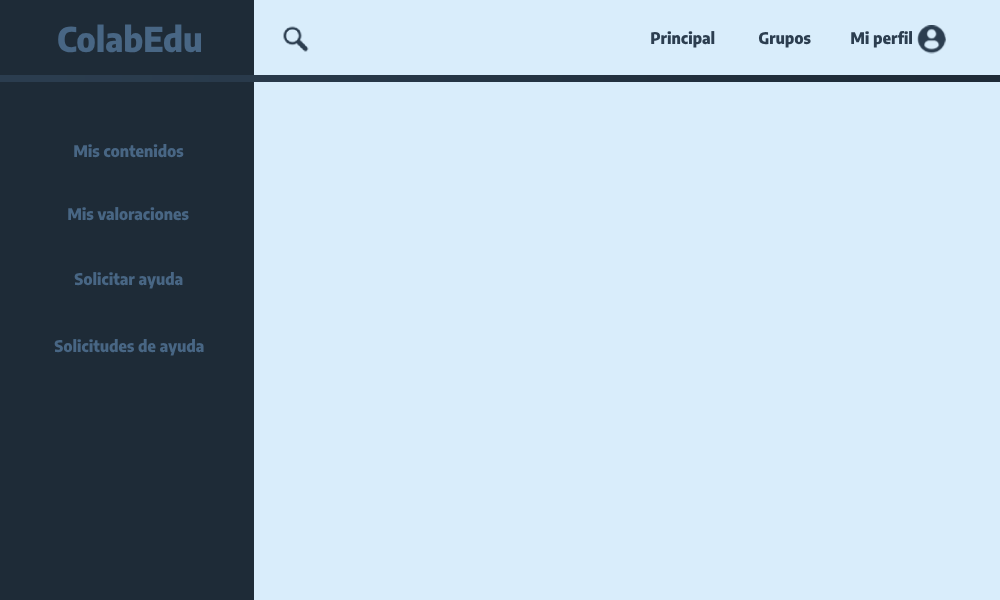
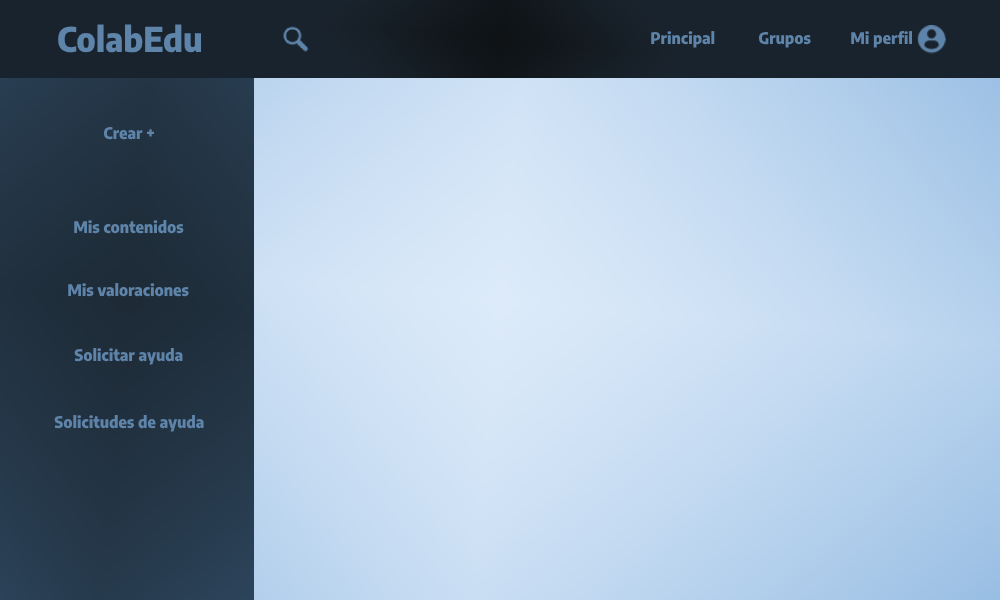
Interfaz, LoadContent, EmailService
Se cambiaron algunas interfaces gráficas, se creó el emailService, además de la creación de la ventana subir contenido -Aún sin funcionalidad-

diff --git a/src/main/java/co/uniquindio/estructuras/colabedu/Controller/RegisterController.java b/src/main/java/co/uniquindio/estructuras/colabedu/Controller/RegisterController.java
@@ -5,9 +5,13 @@ import java.net.URL;
 import java.util.ResourceBundle;
 
 import co.uniquindio.estructuras.colabedu.App;
-import co.uniquindio.estructuras.colabedu.DTO.UserDTO;
+<<<<<<< HEAD
+import co.uniquindio.estructuras.colabedu.DTO.ModeratorDTO;
 import co.uniquindio.estructuras.colabedu.Model.Moderator;
 import co.uniquindio.estructuras.colabedu.Model.User;
+import co.uniquindio.estructuras.colabedu.Util.EmailService;
+=======
+>>>>>>> 524ad9fae622212e6b406b37167177d3bc3e4777
 import javafx.fxml.FXML;
 import javafx.scene.control.TextField;
 import javafx.scene.input.MouseEvent;
@@ -27,13 +31,21 @@ public class RegisterController {
     private TextField txt_email;
 
     @FXML
+    private TextField txt_grade;
+
+    @FXML
     private TextField txt_name;
 
     @FXML
     private TextField txt_password;
 
     @FXML
+    private TextField txt_school;
+
+    @FXML
     private TextField txt_username;
+
+    EmailService emailService = new EmailService();
 
     @FXML
     void btn_back(MouseEvent event) throws IOException {
@@ -41,24 +53,30 @@ public class RegisterController {
     }
 
     @FXML
-    void btn_signIn(MouseEvent event) {
+<<<<<<< HEAD
+    void btn_signIn(MouseEvent event) throws IOException {
         String email = txt_email.getText();
         String name = txt_name.getText();
         String username = txt_username.getText();
         String password = txt_password.getText();
         String confirmPassword = txt_confirmPassword.getText();
 
-        UserDTO userDTO = new UserDTO(name, email, username);
-        User user = new Moderator(name, email, username, password);
+        emailService.enviarCorreo(email, username); //prueba de correo
+=======
+    void btn_signIn(MouseEvent event) {
+>>>>>>> 524ad9fae622212e6b406b37167177d3bc3e4777
 
+        App.setRoot("LogInView", "ColabEdu -Inicia sesión-");
     }
 
     @FXML
     void initialize() {
         assert txt_confirmPassword != null : "fx:id=\"txt_confirmPassword\" was not injected: check your FXML file 'RegisterView.fxml'.";
         assert txt_email != null : "fx:id=\"txt_email\" was not injected: check your FXML file 'RegisterView.fxml'.";
+        assert txt_grade != null : "fx:id=\"txt_grade\" was not injected: check your FXML file 'RegisterView.fxml'.";
         assert txt_name != null : "fx:id=\"txt_name\" was not injected: check your FXML file 'RegisterView.fxml'.";
         assert txt_password != null : "fx:id=\"txt_password\" was not injected: check your FXML file 'RegisterView.fxml'.";
+        assert txt_school != null : "fx:id=\"txt_school\" was not injected: check your FXML file 'RegisterView.fxml'.";
         assert txt_username != null : "fx:id=\"txt_username\" was not injected: check your FXML file 'RegisterView.fxml'.";
 
     }

diff --git a/src/main/java/co/uniquindio/estructuras/colabedu/Controller/PrincipalController.java b/src/main/java/co/uniquindio/estructuras/colabedu/Controller/PrincipalController.java
@@ -1,10 +1,15 @@
 package co.uniquindio.estructuras.colabedu.Controller;
 
+import java.io.IOException;
 import java.net.URL;
 import java.util.ResourceBundle;
 import javafx.fxml.FXML;
+import javafx.fxml.FXMLLoader;
+import javafx.scene.Parent;
+import javafx.scene.Scene;
 import javafx.scene.control.TextField;
 import javafx.scene.input.MouseEvent;
+import javafx.stage.Stage;
 
 public class PrincipalController {
 
@@ -19,42 +24,64 @@ public class PrincipalController {
 
     @FXML
     void btn_colabEdu(MouseEvent event) {
-        System.out.println("Boton ColabEdu");
+
     }
 
     @FXML
     void btn_contenidos(MouseEvent event) {
-        System.out.println("Boton contenidos");
+
+    }
+
+    @FXML
+    void btn_crear(MouseEvent event) {
+        try {
+            // Cargar el FXML de la pestaña/ventana de subir contenido
+            FXMLLoader fxmlLoader = new FXMLLoader(getClass().getResource("/co/uniquindio/estructuras/colabedu/LoadContentView.fxml"));
+            Parent root = fxmlLoader.load();
+
+            // Crear nuevo Stage (ventana)
+            Stage stage = new Stage();
+            stage.setTitle("ColabEdu -Crea contenido-");
+            stage.setScene(new Scene(root));
+
+            // Opcional: bloquear la principal hasta cerrar esta
+            // stage.initModality(Modality.WINDOW_MODAL);
+            // stage.initOwner(((Node) event.getSource()).getScene().getWindow());
+
+            stage.show(); // Mostrar la ventana sin cerrar la principal
+        } catch (IOException e) {
+            e.printStackTrace();
+        }
     }
 
     @FXML
     void btn_grupos(MouseEvent event) {
-        System.out.println("Boton grupos");
+
     }
 
     @FXML
     void btn_perfil(MouseEvent event) {
-        System.out.println("Boton perfil");
+
     }
 
     @FXML
     void btn_principal(MouseEvent event) {
-        System.out.println("Boton principal");
-    }
 
-    @FXML
-    void btn_valoraciones(MouseEvent event) {
-        System.out.println("Boton valoraciones");
     }
 
     @FXML
     void btn_soliAyuda(MouseEvent event) {
-        System.out.println("Boton solicitar ayuda");
+
     }
 
     @FXML
     void btn_solicitudesAyuda(MouseEvent event) {
-        System.out.println("Boton solicitudes de ayuda");
+
+    }
+
+    @FXML
+    void btn_valoraciones(MouseEvent event) {
+
     }
 
     @FXML

diff --git a/src/main/java/co/uniquindio/estructuras/colabedu/Util/EmailService.java b/src/main/java/co/uniquindio/estructuras/colabedu/Util/EmailService.java
@@ -1,0 +1,47 @@
+package co.uniquindio.estructuras.colabedu.Util;
+
+import jakarta.mail.*;
+import jakarta.mail.internet.*;
+import java.util.Properties;
+
+public class EmailService {
+    public void enviarCorreo(String correo, String nombre) {
+        // Tu correo y contraseña de aplicación (no la contraseña normal)
+        final String username = "noreply.colabedu@gmail.com";
+        final String password = "vhlcigmhwlossyqa";
+
+        // Configuración de propiedades SMTP para Gmail
+        Properties props = new Properties();
+        props.put("mail.smtp.auth", "true");
+        props.put("mail.smtp.starttls.enable", "true");
+        props.put("mail.smtp.host", "smtp.gmail.com");
+        props.put("mail.smtp.port", "587");
+
+        // Crear sesión autenticada
+        Session session = Session.getInstance(props,
+                new Authenticator() {
+                    protected PasswordAuthentication getPasswordAuthentication() {
+                        return new PasswordAuthentication(username, password);
+                    }
+                }
+        );
+
+        try {
+            // Crear un mensaje simple
+            Message message = new MimeMessage(session);
+            message.setFrom(new InternetAddress("noreply.colabedu@gmail.com"));
+            message.setRecipients(Message.RecipientType.TO,
+                    InternetAddress.parse(correo));
+            message.setSubject("Confirmación de registro - ColabEdu");
+            message.setText("Hola " + nombre + ", tu resgitro en ColabEdu fue todo un éxito");
+
+            // Enviar mensaje
+            Transport.send(message);
+
+            System.out.println("Correo enviado exitosamente.");
+        } catch (MessagingException e) {
+            System.out.println("Error al conectar con el servidor SMTP:");
+            e.printStackTrace();
+        }
+    }
+}

diff --git a/src/main/java/co/uniquindio/estructuras/colabedu/Controller/LoadContentController.java b/src/main/java/co/uniquindio/estructuras/colabedu/Controller/LoadContentController.java
@@ -1,0 +1,54 @@
+package co.uniquindio.estructuras.colabedu.Controller;
+
+import java.io.IOException;
+import java.net.URL;
+import java.util.ResourceBundle;
+
+import co.uniquindio.estructuras.colabedu.App;
+import javafx.fxml.FXML;
+import javafx.scene.Node;
+import javafx.scene.control.TextField;
+import javafx.scene.input.MouseEvent;
+import javafx.stage.Stage;
+
+public class LoadContentController {
+
+    @FXML
+    private ResourceBundle resources;
+
+    @FXML
+    private URL location;
+
+    @FXML
+    private TextField txt_description;
+
+    @FXML
+    private TextField txt_title;
+
+    @FXML
+    private TextField txt_topic;
+
+    @FXML
+    private TextField txt_typeContent;
+
+    @FXML
+    void btn_back(MouseEvent event) throws IOException {
+        Stage stage = (Stage) ((Node) event.getSource()).getScene().getWindow();
+        stage.close();
+    }
+
+    @FXML
+    void btn_loadContent(MouseEvent event) throws IOException {
+        App.setRoot("PrincipalView", "ColabEdu -Página principal-");
+    }
+
+    @FXML
+    void initialize() {
+        assert txt_description != null : "fx:id=\"txt_description\" was not injected: check your FXML file 'LoadContentView.fxml'.";
+        assert txt_title != null : "fx:id=\"txt_title\" was not injected: check your FXML file 'LoadContentView.fxml'.";
+        assert txt_topic != null : "fx:id=\"txt_topic\" was not injected: check your FXML file 'LoadContentView.fxml'.";
+        assert txt_typeContent != null : "fx:id=\"txt_typeContent\" was not injected: check your FXML file 'LoadContentView.fxml'.";
+
+    }
+
+}

diff --git a/src/main/java/co/uniquindio/estructuras/colabedu/DTO/ModeratorDTO.java b/src/main/java/co/uniquindio/estructuras/colabedu/DTO/ModeratorDTO.java
@@ -1,18 +1,19 @@
 package co.uniquindio.estructuras.colabedu.DTO;
 
-public class UserDTO {
+public class ModeratorDTO {
+
     private String name;
     private String email;
     private String id;
+    private String password;
 
-    // Constructor con todos los campos
-    public UserDTO(String name, String email, String id) {
+    public ModeratorDTO(String name, String email, String id, String password) {
         this.name = name;
         this.email = email;
         this.id = id;
+        this.password = password;
     }
 
-    // Getters y setters
     public String getName() {
         return name;
     }
@@ -37,12 +38,21 @@ public class UserDTO {
         this.id = id;
     }
 
+    public String getPassword() {
+        return password;
+    }
+
+    public void setPassword(String password) {
+        this.password = password;
+    }
+
     @Override
     public String toString() {
-        return "UserDTO{" +
+        return "ModeratorDTO{" +
                 "name='" + name + '\'' +
                 ", email='" + email + '\'' +
                 ", id='" + id + '\'' +
+                ", password='" + password + '\'' +
                 '}';
     }
 }

diff --git a/src/main/java/co/uniquindio/estructuras/colabedu/Model/Moderator.java b/src/main/java/co/uniquindio/estructuras/colabedu/Model/Moderator.java
@@ -1,9 +1,6 @@
 package co.uniquindio.estructuras.colabedu.Model;
 
-import co.uniquindio.estructuras.colabedu.Model.Interfaces.Report;
-import co.uniquindio.estructuras.colabedu.Model.Interfaces.UserManagement;
-
-public class Moderator extends User implements UserManagement, Report {
+public class Moderator extends User implements UserManagement, Report{
 
     public Moderator(String name, String email, String id, String password) {
         super(name, email, id, password);

diff --git a/src/main/java/module-info.java b/src/main/java/module-info.java
@@ -1,6 +1,9 @@
 module co.uniquindio.estructuras.colabedu {
     requires javafx.controls;
     requires javafx.fxml;
+    requires jakarta.mail;
+
+    requires org.kordamp.bootstrapfx.core;
 
     opens co.uniquindio.estructuras.colabedu to javafx.fxml;
     exports co.uniquindio.estructuras.colabedu;

diff --git a/src/main/java/co/uniquindio/estructuras/colabedu/Model/UserManagement.java b/src/main/java/co/uniquindio/estructuras/colabedu/Model/UserManagement.java
@@ -1,6 +1,4 @@
-package co.uniquindio.estructuras.colabedu.Model.Interfaces;
-
-import co.uniquindio.estructuras.colabedu.Model.User;
+package co.uniquindio.estructuras.colabedu.Model;
 
 public interface UserManagement {
 

diff --git a/src/main/java/co/uniquindio/estructuras/colabedu/Model/Report.java b/src/main/java/co/uniquindio/estructuras/colabedu/Model/Report.java
@@ -1,4 +1,4 @@
-package co.uniquindio.estructuras.colabedu.Model.Interfaces;
+package co.uniquindio.estructuras.colabedu.Model;
 
 public interface Report {
 

diff --git a/src/main/java/co/uniquindio/estructuras/colabedu/Model/AcademicSocialNetwork.java b/src/main/java/co/uniquindio/estructuras/colabedu/Model/AcademicSocialNetwork.java
@@ -11,4 +11,5 @@ public class AcademicSocialNetwork {
     }
 
     //falta el constructor con sus respectivas lista propias
+
 }
